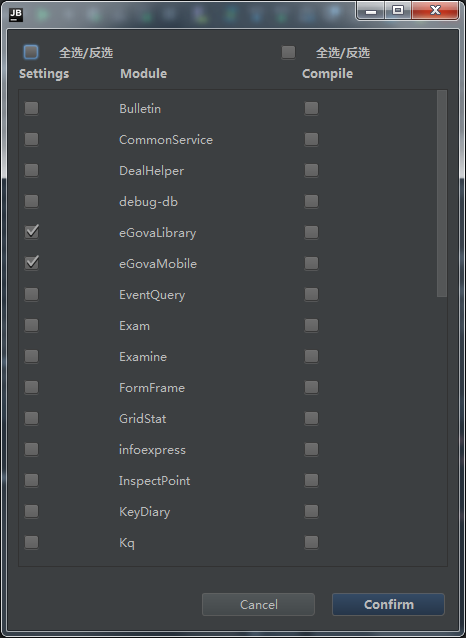
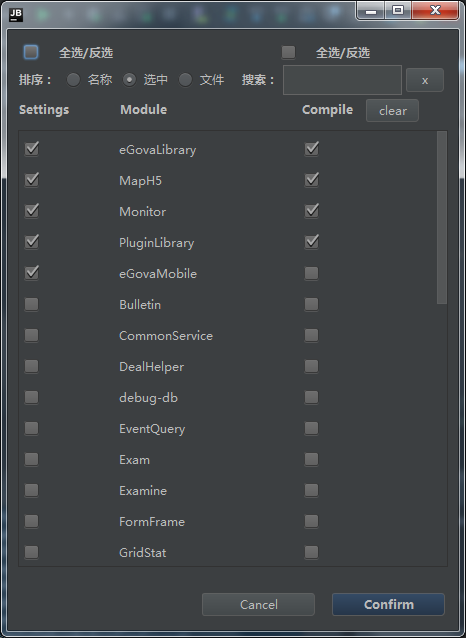
Add search box.

diff --git a/src/cn/com/egova/mobile/tools/cello/SettingPanel.java b/src/cn/com/egova/mobile/tools/cello/SettingPanel.java
@@ -1,8 +1,11 @@
 package cn.com.egova.mobile.tools.cello;
 
+import a.i.U;
+import com.intellij.ui.DocumentAdapter;
 import com.intellij.ui.components.JBScrollPane;
 
 import javax.swing.*;
+import javax.swing.event.DocumentEvent;
 import java.awt.*;
 import java.awt.event.ActionEvent;
 import java.awt.event.ItemEvent;
@@ -30,12 +33,15 @@ public class SettingPanel extends JPanel {
 
     private JPanel mListPanel;
 
+    private List<ModuleElement> mShowModules;
+
     public SettingPanel(List<ModuleElement> settingModules,
                         IConfirmListener confirmListener, ICancelListener cancelListener) {
         this.mSettingModules = settingModules;
+        this.mShowModules = new ArrayList<>(settingModules);
         this.mConfirmListener = confirmListener;
         this.mCancelListener = cancelListener;
-        this.mOrderManager = new OrderManager(settingModules);
+        this.mOrderManager = new OrderManager(mShowModules);
         this.mOrderManager.sort();
 
         setPreferredSize(new Dimension(450, 600));
@@ -51,7 +57,7 @@ public class SettingPanel extends JPanel {
 
         contentPanel.add(checkAllPanel());
 
-        contentPanel.add(new OrderPanel());
+        contentPanel.add(new FilterPanel());
 
         JPanel header = new HeaderPanel();
         contentPanel.add(header);
@@ -75,7 +81,7 @@ public class SettingPanel extends JPanel {
         mListPanel.add(Box.createRigidArea(new Dimension(0, 5)));
 
         int cnt = 0;
-        for (ModuleElement element : mSettingModules) {
+        for (ModuleElement element : mShowModules) {
             EntryPanel entry = new EntryPanel(element);
             if (cnt > 0) {
                 mListPanel.add(Box.createRigidArea(new Dimension(0, 5)));
@@ -404,8 +410,10 @@ public class SettingPanel extends JPanel {
         }
     }
 
-    private class OrderPanel extends JPanel {
-        public OrderPanel() {
+    private class FilterPanel extends JPanel {
+        private String lastSearchText;
+        private List<MenuElement> backupList;
+        public FilterPanel() {
             final JRadioButton rbName = new JRadioButton("名称");
             final JRadioButton rbCheck = new JRadioButton("选中");
             final JRadioButton rbFile = new JRadioButton("文件");
@@ -444,13 +452,54 @@ public class SettingPanel extends JPanel {
             rbFile.addItemListener(listener);
             rbCheck.addItemListener(listener);
 
+            JTextField searchBox = new JTextField();
+            searchBox.setPreferredSize(new Dimension(50, 26));
+            searchBox.getDocument().addDocumentListener(new DocumentAdapter() {
+                @Override
+                protected void textChanged(DocumentEvent documentEvent) {
+                    String text = searchBox.getText();
+
+                    if (!Util.equals(text, lastSearchText)) {
+                        mShowModules.clear();
+                        if (Util.isEmpty(text)) {
+                            mShowModules.addAll(mSettingModules);
+                        } else {
+                            for (ModuleElement element : mSettingModules) {
+                                if (element.lowerCaseName().contains(text.toLowerCase())) {
+                                    mShowModules.add(element);
+                                }
+                            }
+                        }
+                        sortIfCheckState();
+                        updateListLayout();
+                    }
+
+                    lastSearchText = text;
+                }
+            });
+
+            JButton btnClearSearch = new JButton();
+            btnClearSearch.setAction(new AbstractAction() {
+                @Override
+                public void actionPerformed(ActionEvent e) {
+                    searchBox.setText("");
+                }
+            });
+            btnClearSearch.setPreferredSize(new Dimension(45, 26));
+            btnClearSearch.setText("x");
+            btnClearSearch.setVisible(true);
+
             setLayout(new BoxLayout(this, BoxLayout.LINE_AXIS));
             add(Box.createRigidArea(new Dimension(1, 0)));
-            add(configLabel(new JLabel("排序："), 90));
-            add(Box.createRigidArea(new Dimension(11, 0)));
+            add(configLabel(new JLabel("排序："), 40));
+            add(Box.createRigidArea(new Dimension(5, 0)));
             add(rbName);
             add(rbCheck);
             add(rbFile);
+            add(Box.createRigidArea(new Dimension(10, 0)));
+            add(configLabel(new JLabel("搜索："), 40));
+            add(searchBox);
+            add(btnClearSearch);
             add(Box.createHorizontalGlue());
         }
     }

diff --git a/src/cn/com/egova/mobile/tools/cello/Util.java b/src/cn/com/egova/mobile/tools/cello/Util.java
@@ -132,4 +132,14 @@ public class Util {
     public static String unComment(String line) {
         return line.replaceFirst("^\\s*//", "");
     }
+
+    public static boolean equals(String left, String right) {
+        if (left == null && right == null) {
+            return true;
+        } else if (left != null && right != null) {
+            return left.equals(right);
+        } else {
+            return false;
+        }
+    }
 }
